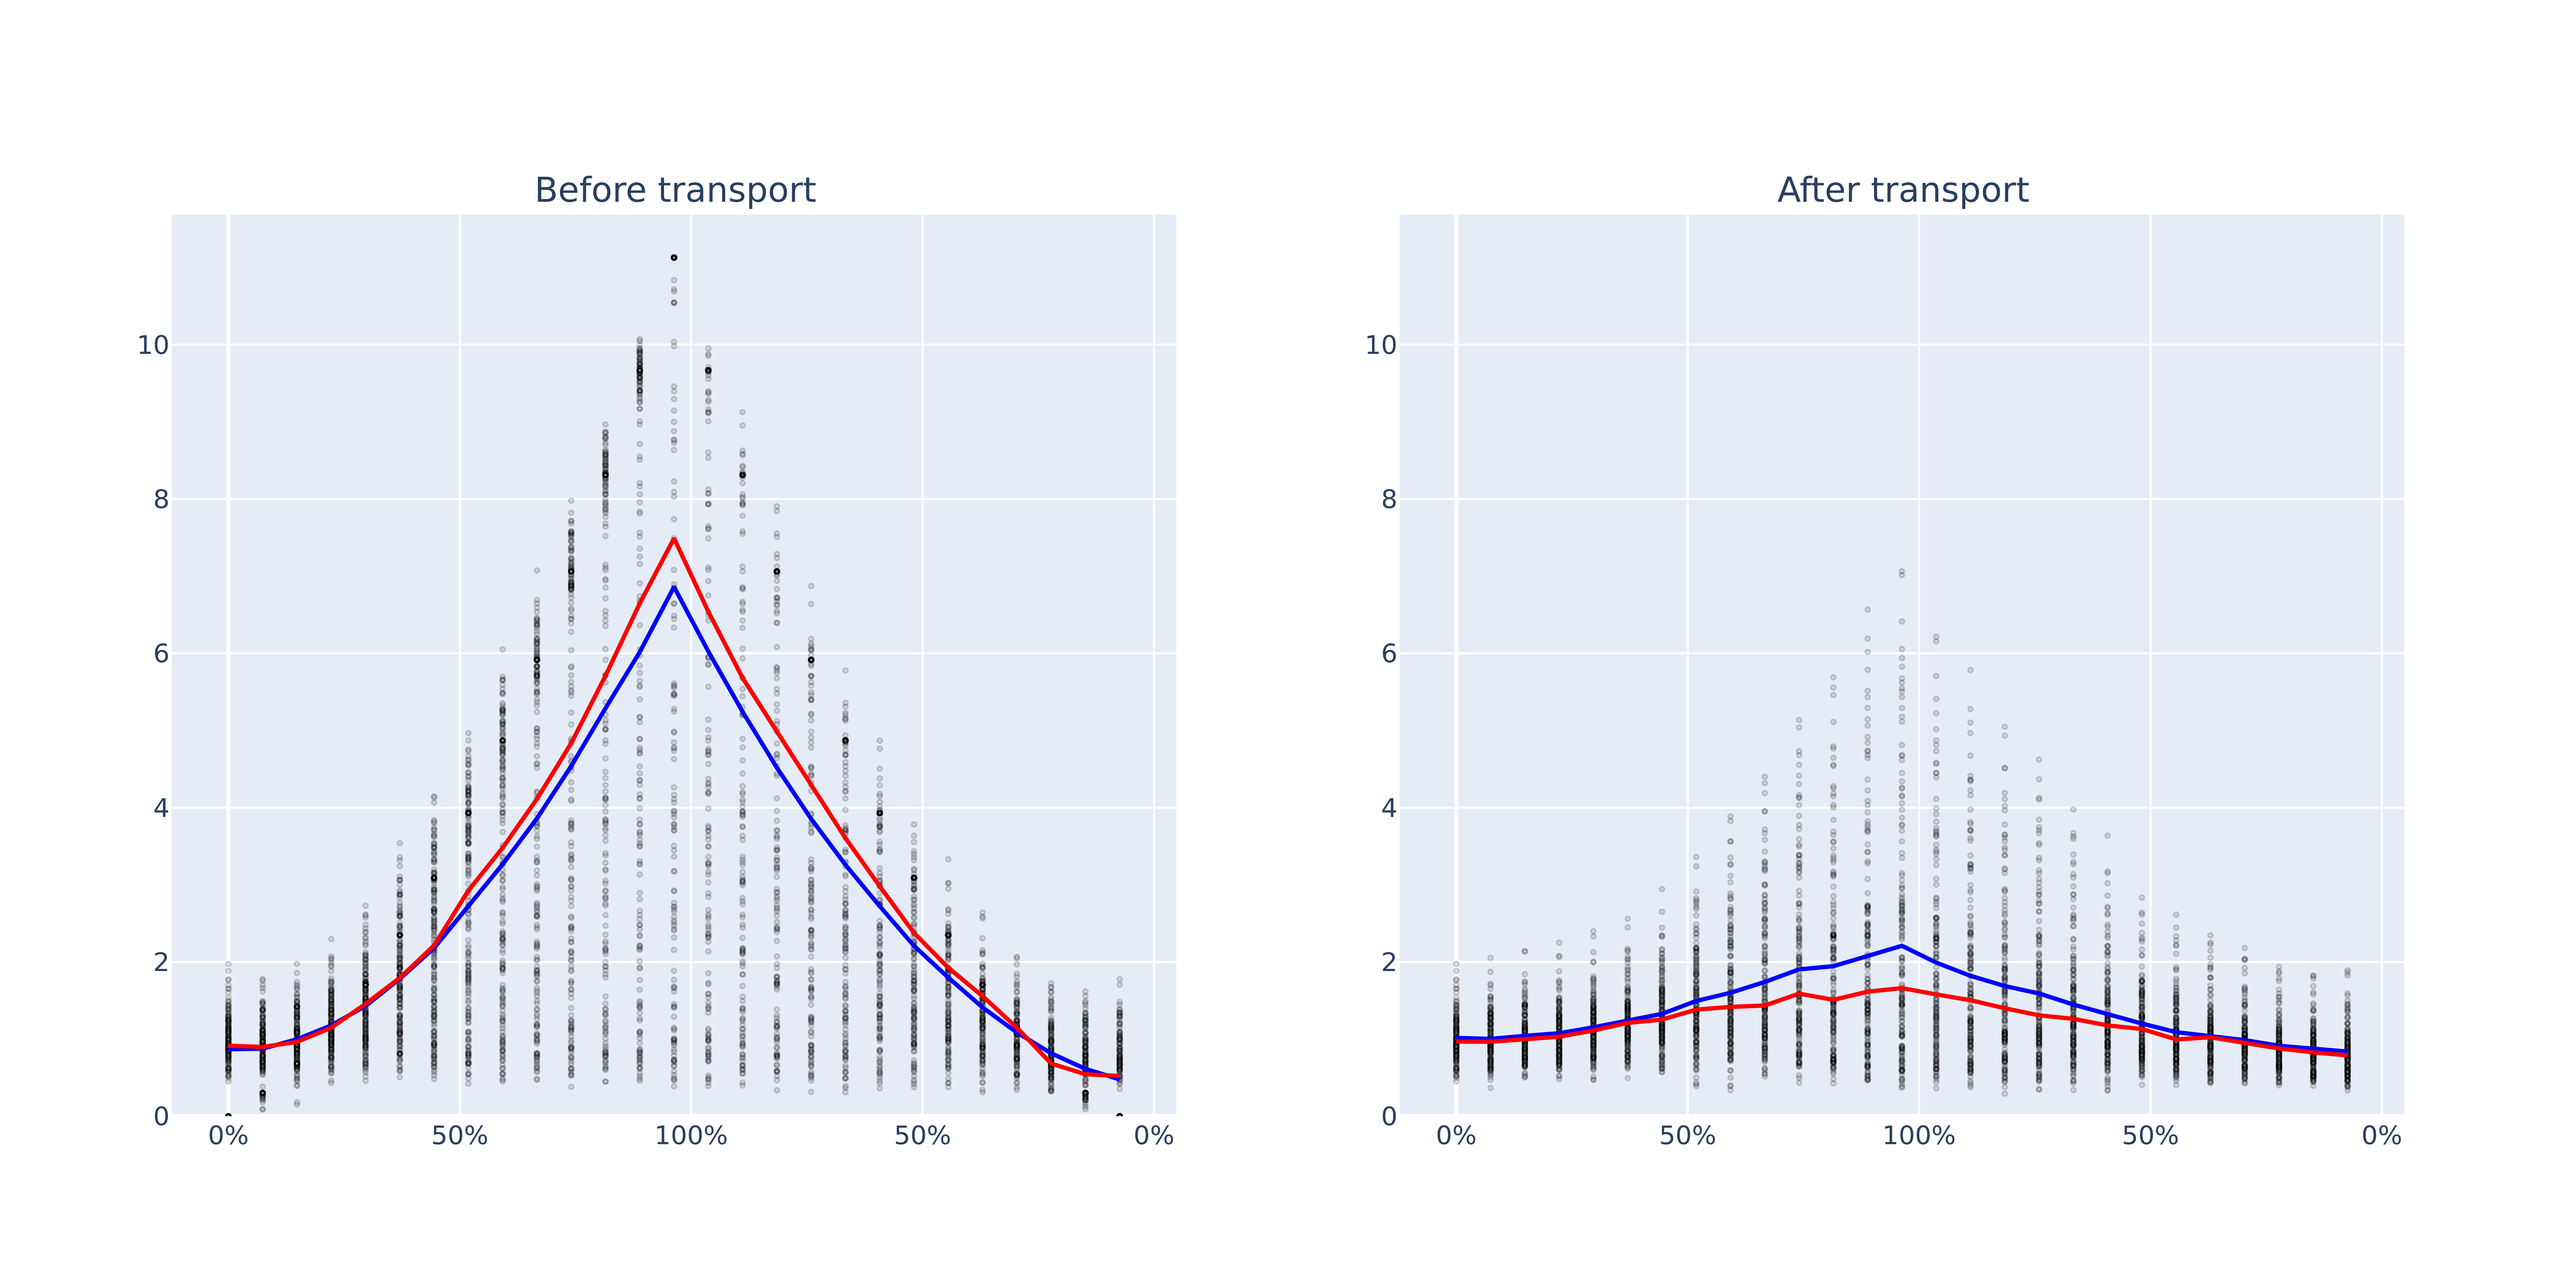
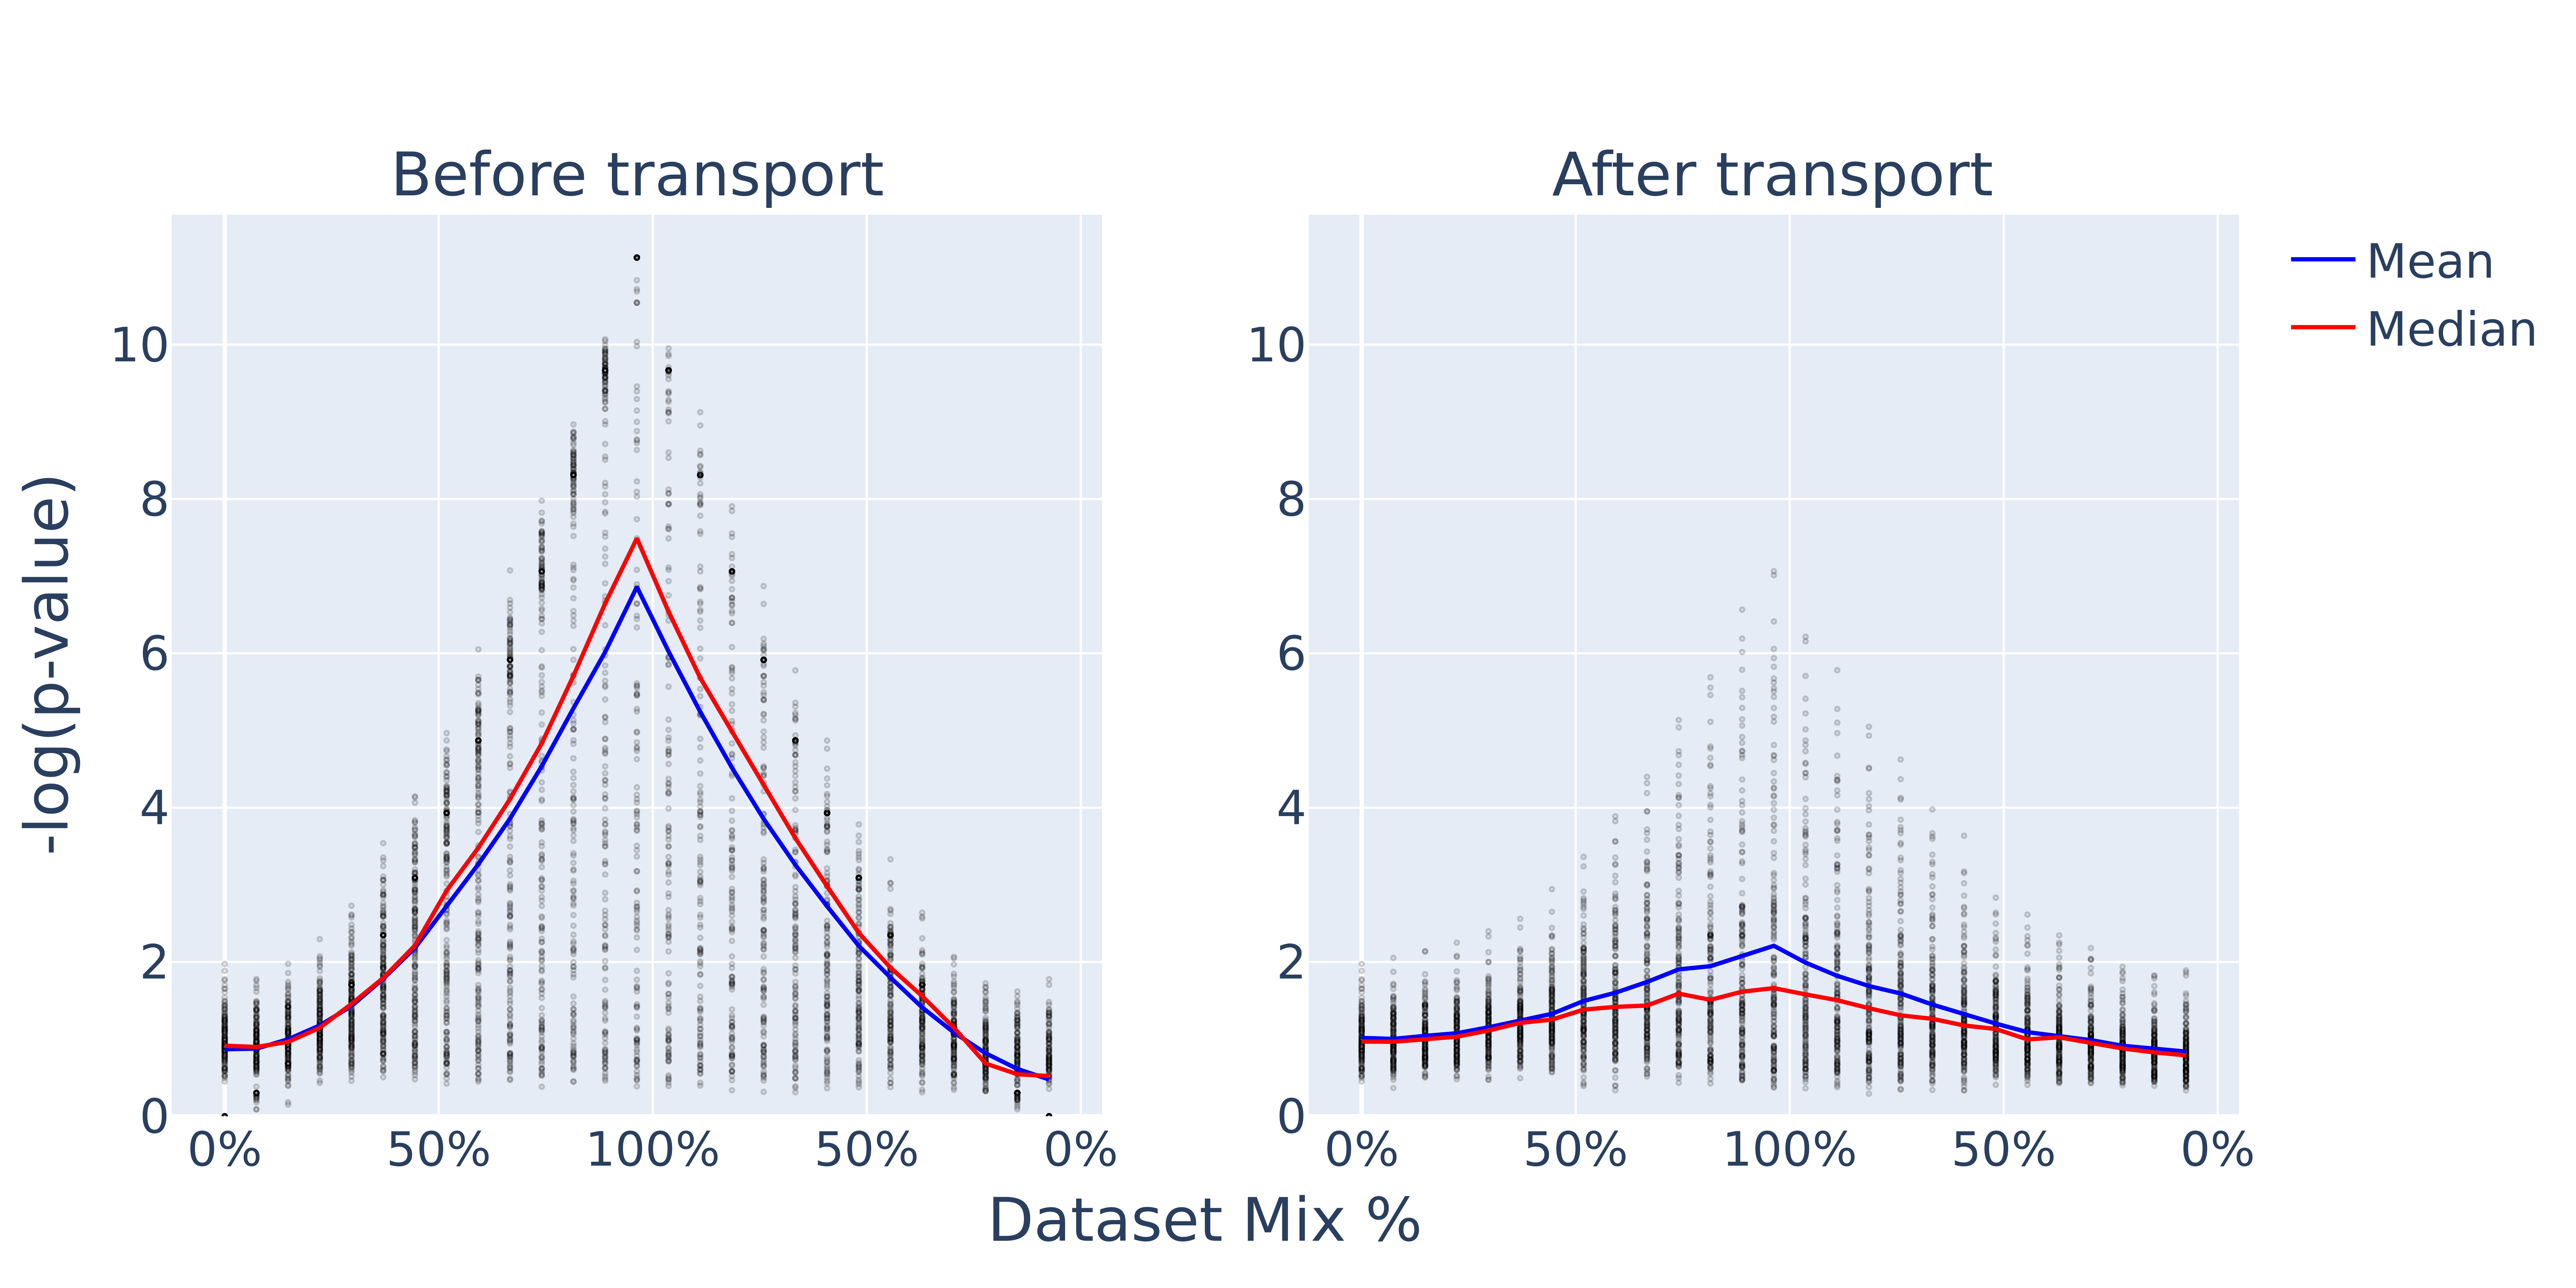
more info on titration plots

diff --git a/variance_tests.py b/variance_tests.py
@@ -63,9 +63,9 @@ class Metrics:
             return curr_pvals / repeats
 
         def _get_titration_results(combined_data, repeats, seed):
-            sample_ids = data_utils.get_sample_ids_by_dataset(combined_data)
+            sample_ids = data_utils.get_sample_ids_by_phenotype_by_dataset(combined_data)
             combined_otu_data = data_utils.round_dataframe(5, combined_data[data_utils.get_otu_columns(combined_data)]).to_numpy()
-            sample_id_to_index = {sid: i for i, sid in enumerate(combined_data.index)}
+            sample_id_to_index = {sid: index for index, sid in enumerate(combined_data.index)}
 
             datasets = list(sample_ids.keys())
             controls_1 = [sample_id_to_index[sid] for sid in sample_ids[datasets[0]]['control']]
@@ -79,7 +79,7 @@ class Metrics:
 
             for k in range(repeats):
                 print(f'titration iteration {k+1} of {repeats}')
-                import time
+                import time  # for logging
                 start = time.time()
 
                 random.seed(seed + k)
@@ -212,30 +212,40 @@ class Draw:
             medians = []
             for l in range(len(titration_results)):
                 curr_pvals = titration_results[l]
-                fig.add_trace(go.Scatter(x=[l for _ in curr_pvals], y=curr_pvals, mode='markers',
-                              marker=dict(opacity=0.2, color='DarkGrey', size=2, line=dict(color='Black', width=1))),
-                              col=i+1, row=row)
+                fig.add_trace(go.Scatter(x=[l for _ in curr_pvals],
+                                         y=curr_pvals,
+                                         mode='markers',
+                                         showlegend=False,
+                                         marker=dict(opacity=0.2,
+                                                     color='DarkGrey',
+                                                     size=2,
+                                                     line=dict(color='Black', width=1))),
+                              col=i+1,
+                              row=row)
 
                 means.append(np.mean(curr_pvals))
                 medians.append(np.median(curr_pvals))
                 x.append(l)
                 max_p_val = max(max_p_val, max(curr_pvals))
 
-            fig.add_trace(go.Scatter(x=x, y=means, mode='lines', marker=dict(color='Blue', size=2)), col=i+1, row=row)
-            fig.add_trace(go.Scatter(x=x, y=medians, mode='lines', marker=dict(color='Red', size=2)), col=i+1, row=row)
+            showlegend = (i == 0)  # only show legend for first subplot, to avoid duplicates
+            fig.add_trace(go.Scatter(x=x, y=means, mode='lines', name='Mean', marker=dict(color='Blue', size=2), showlegend=showlegend), col=i+1, row=row)
+            fig.add_trace(go.Scatter(x=x, y=medians, mode='lines', name='Median', marker=dict(color='Red', size=2), showlegend=showlegend), col=i+1, row=row)
 
         set_size = len(all_titration_results[0])  # they should all be the same size
         fig.update_xaxes(tickmode='array',
                          tickvals=[0, 0.25 * set_size, 0.5 * set_size, 0.75 * set_size, set_size],
                          ticktext=['0%', '50%', '100%', '50%', '0%'])
         fig.update_yaxes(range=[0, 1.05 * max_p_val])
-        fig.update_layout(showlegend=False)
+        fig.update_layout(showlegend=True)
 
     def draw_titration_results_before_and_after(titration_results_before, titration_results_after, png_name='titration.png'):
         """
         Based on code from Guy Shur's thesis.
         """
-        fig = subplots.make_subplots(cols=2, print_grid=False, vertical_spacing=0.13, subplot_titles=["Before transport", "After transport"])
+        fig = subplots.make_subplots(cols=2, print_grid=False, vertical_spacing=0.13, subplot_titles=["Before transport", "After transport"], x_title='Dataset Mix %', y_title='-log(p-value)')
+        fig.update_annotations(font={'size': 28})
+        fig.update_layout(font={'size': 22})
         Draw._draw_titration_internal(fig, [titration_results_before, titration_results_after])
         fig.write_image(png_name, height=600, width=1200, scale=6, format='png')
 

diff --git a/data_utils.py b/data_utils.py
@@ -23,7 +23,7 @@ def round_dataframe(digits, dataframe):
     return round_dataframes(digits, dataframe)[0]
 
 
-def get_sample_ids_by_dataset(combined_data: pd.DataFrame) -> dict:
+def get_sample_ids_by_phenotype_by_dataset(combined_data: pd.DataFrame) -> dict:
     """
     Based on code from Guy Shur's thesis (utils.py).
     """